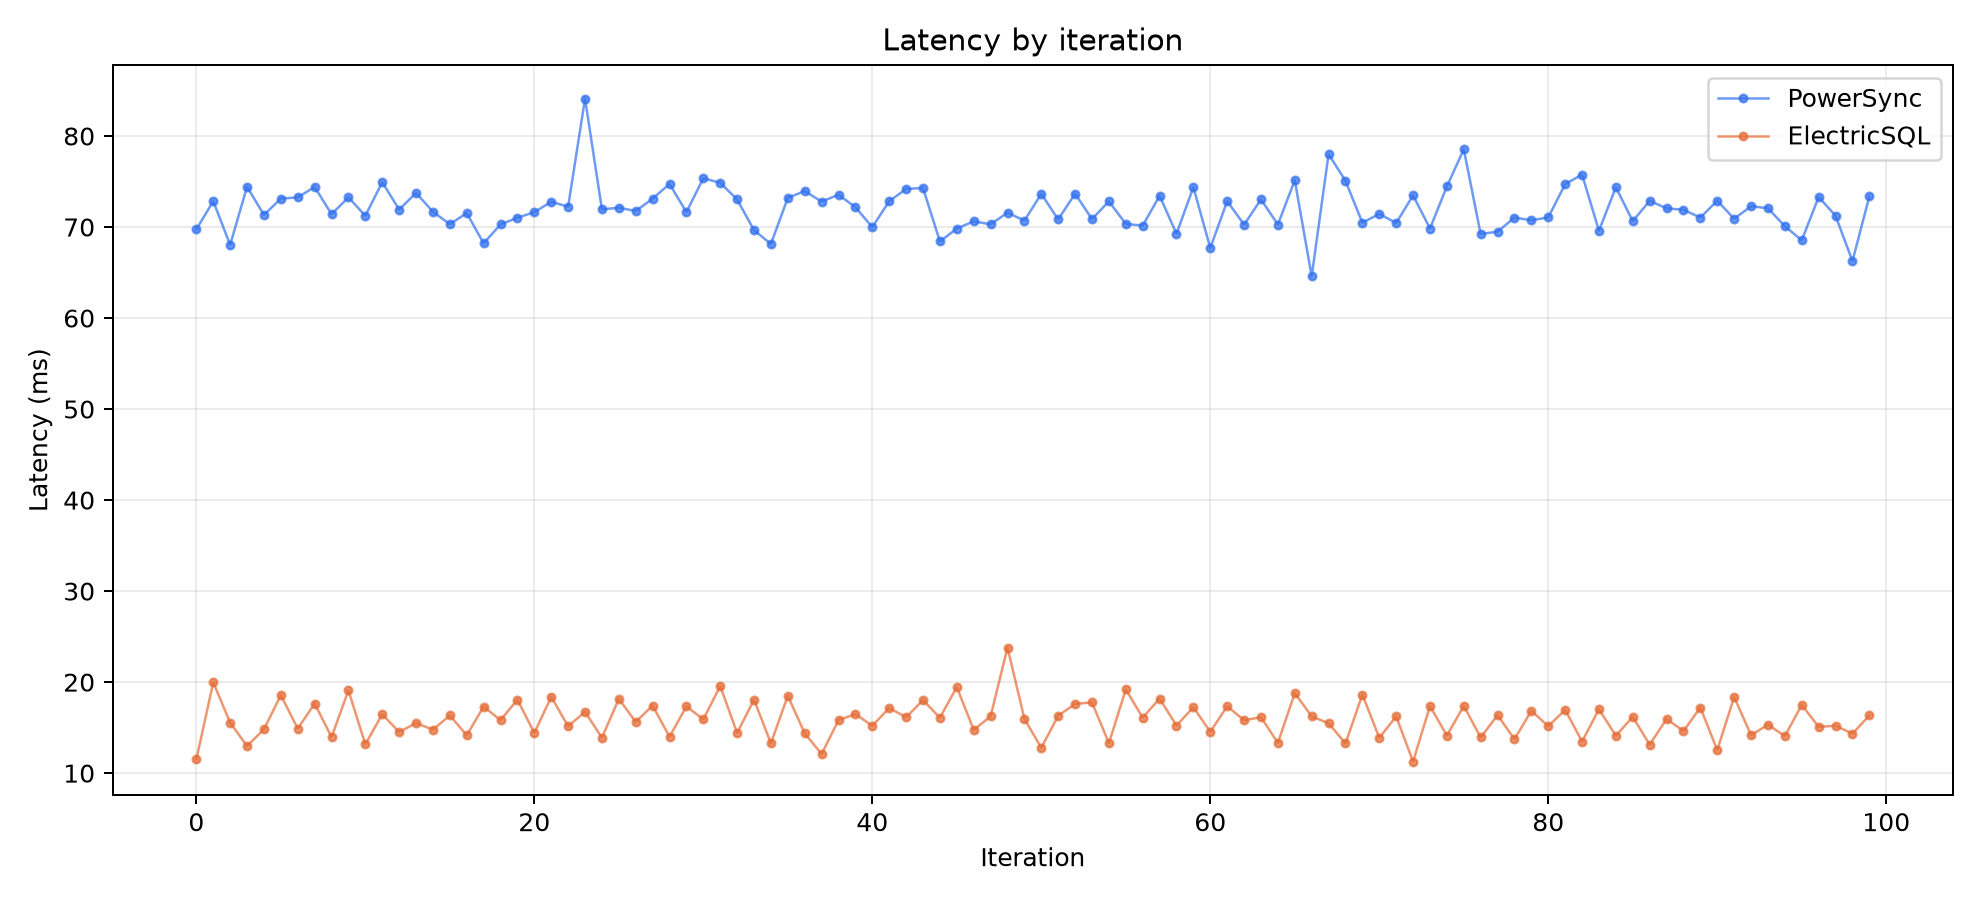
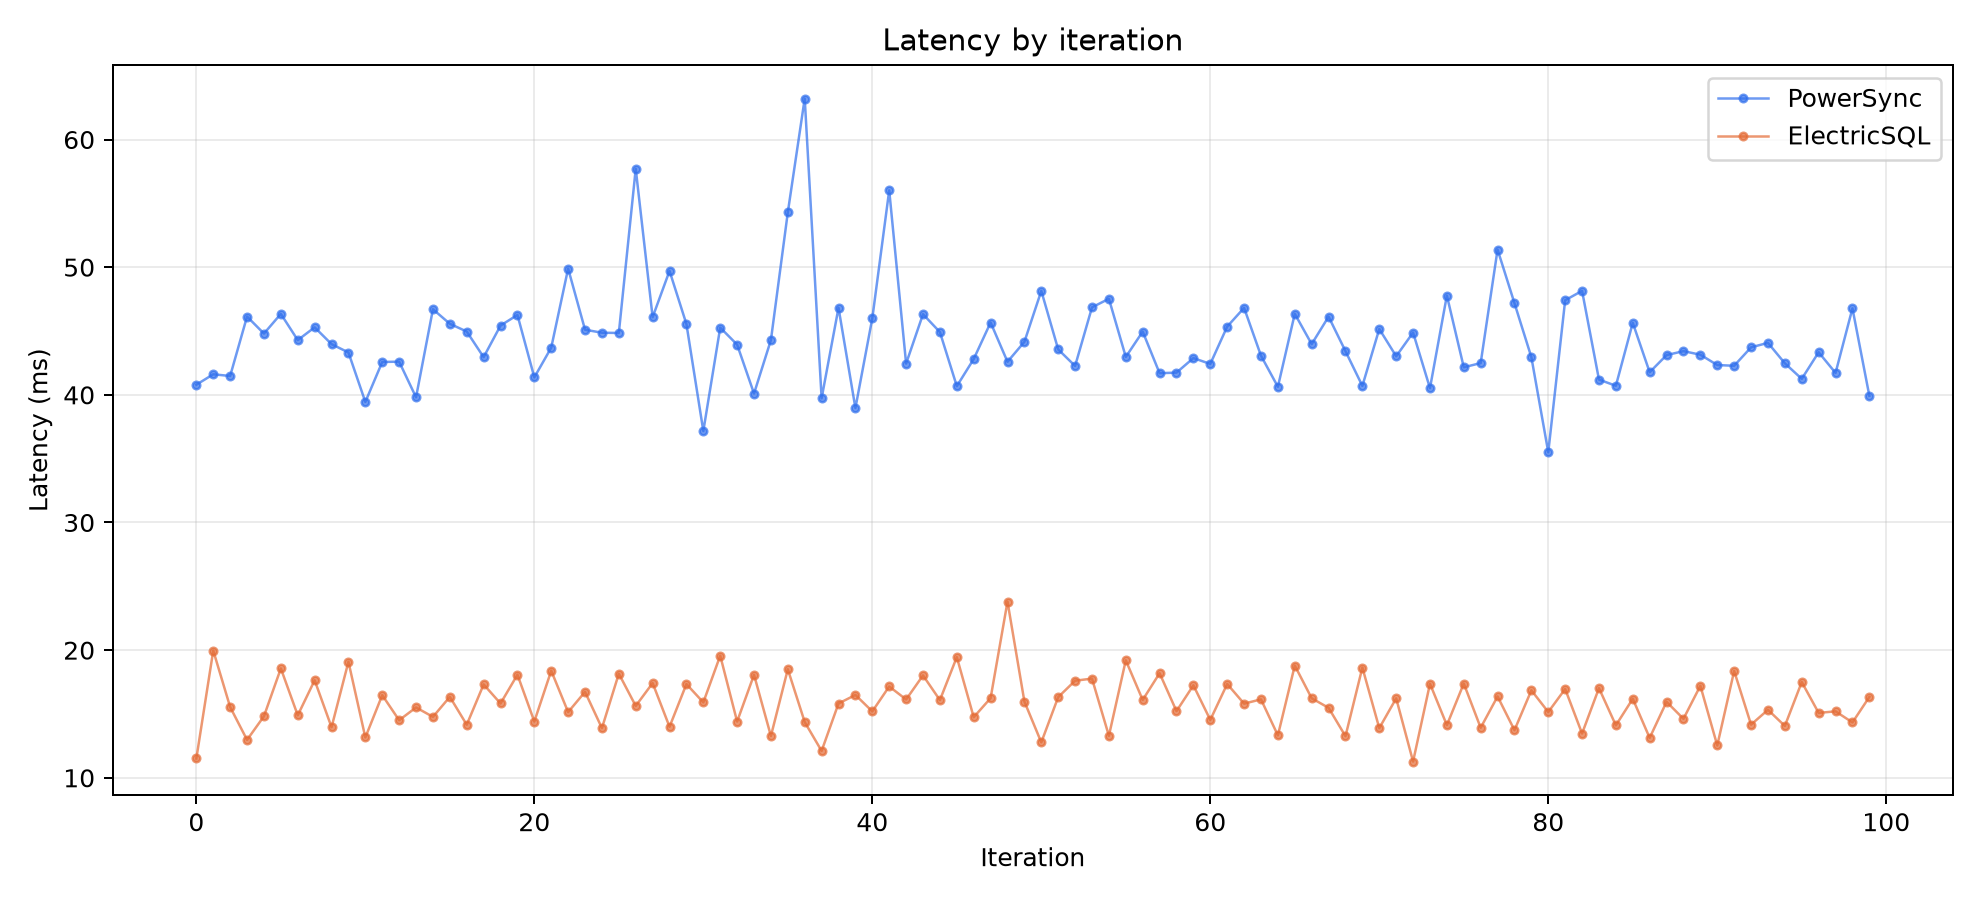
Reduced PowerSync throttle to 0ms and generated new plots

diff --git a/experiments/powersync/client/src/index.ts b/experiments/powersync/client/src/index.ts
@@ -38,7 +38,7 @@ for (const row of await db.getAll<{ id: string }>('SELECT id FROM events')) {
 
 console.log('PowerSync client ready, watching for new events...');
 
-for await (const result of db.watch('SELECT id FROM events')) {
+for await (const result of db.watch('SELECT id FROM events', [], { throttleMs: 0 })) {
   const rows = (result.rows?._array ?? []) as { id: string }[];
   for (const row of rows) {
     if (!seen.has(row.id)) {

diff --git a/results/analysis/report.md b/results/analysis/report.md
@@ -4,7 +4,7 @@
 
 The analysis loaded the newest latency CSV with at least 20 observations for each engine:
 
-- PowerSync: `results/powersync-latency-1790845451144.csv`
+- PowerSync: `results/powersync-latency-1790897793405.csv`
 - ElectricSQL: `results/electricsql-latency-1790845542098.csv`
 
 The CSV fields were parsed as numeric where appropriate. Rows with missing, duplicated, non-positive, or non-numeric measurements would stop the analysis. The selected files contain 100 PowerSync and 100 ElectricSQL observations, with no validation failures.
@@ -19,7 +19,7 @@ The CSV fields were parsed as numeric where appropriate. Rows with missing, dupl
 
 | engine      |   n |   mean_ms |   std_ms |   median_ms |   min_ms |   p95_ms |   max_ms |   missing_values |   outliers_iqr |
 |:------------|----:|----------:|---------:|------------:|---------:|---------:|---------:|-----------------:|---------------:|
-| PowerSync   | 100 |    72.025 |    2.568 |      71.907 |   64.581 |   75.151 |   84.115 |                0 |              4 |
+| PowerSync   | 100 |    44.353 |    3.887 |      43.827 |   35.503 |   49.962 |   63.210 |                0 |              5 |
 | ElectricSQL | 100 |    15.887 |    2.072 |      15.929 |   11.273 |   19.096 |   23.801 |                0 |              1 |
 
 The latency measurements are positive and complete. The iteration-to-latency correlations were:
@@ -27,7 +27,7 @@ The latency measurements are positive and complete. The iteration-to-latency cor
 ```text
 engine
 ElectricSQL   -0.088756
-PowerSync     -0.104318
+PowerSync     -0.123719
 ```
 
 The figures show the group distributions, outliers, and whether latency drifts over the run. The p95 is close to the median for both groups, so this run does not show severe tail instability. The polling-based result-file check adds a small measurement-resolution component; it is the same for both engines after the `pollMs=5` improvement.
@@ -40,10 +40,10 @@ The primary model is a two-group linear model:
 
 With PowerSync as the reference group, the engine effect is the difference between group means. Because the two groups may have different variances, Welch's two-sample t-test is used for the mean difference. The Mann-Whitney U test is included as a distribution-robust comparison of ranks.
 
-- Mean difference, PowerSync minus ElectricSQL: **56.139 ms**
-- Bootstrap 95% CI for mean difference: **[55.488, 56.773] ms**
-- Welch t-test: **t = 170.120, p = 3.49084e-209**
-- Mann-Whitney U test: **U = 10000.0, p = 2.562e-34**
+- Mean difference, PowerSync minus ElectricSQL: **28.467 ms**
+- Bootstrap 95% CI for mean difference: **[27.641, 29.330] ms**
+- Welch t-test: **t = 64.620, p = 5.93902e-112**
+- Mann-Whitney U test: **U = 10000.0, p = 2.56214e-34**
 - Rank-biserial effect size (positive means higher PowerSync latency): **1.000**
 
 Both tests address the narrow question of whether the observed latency distributions differ under this local setup. They do not establish that one technology is universally faster.
